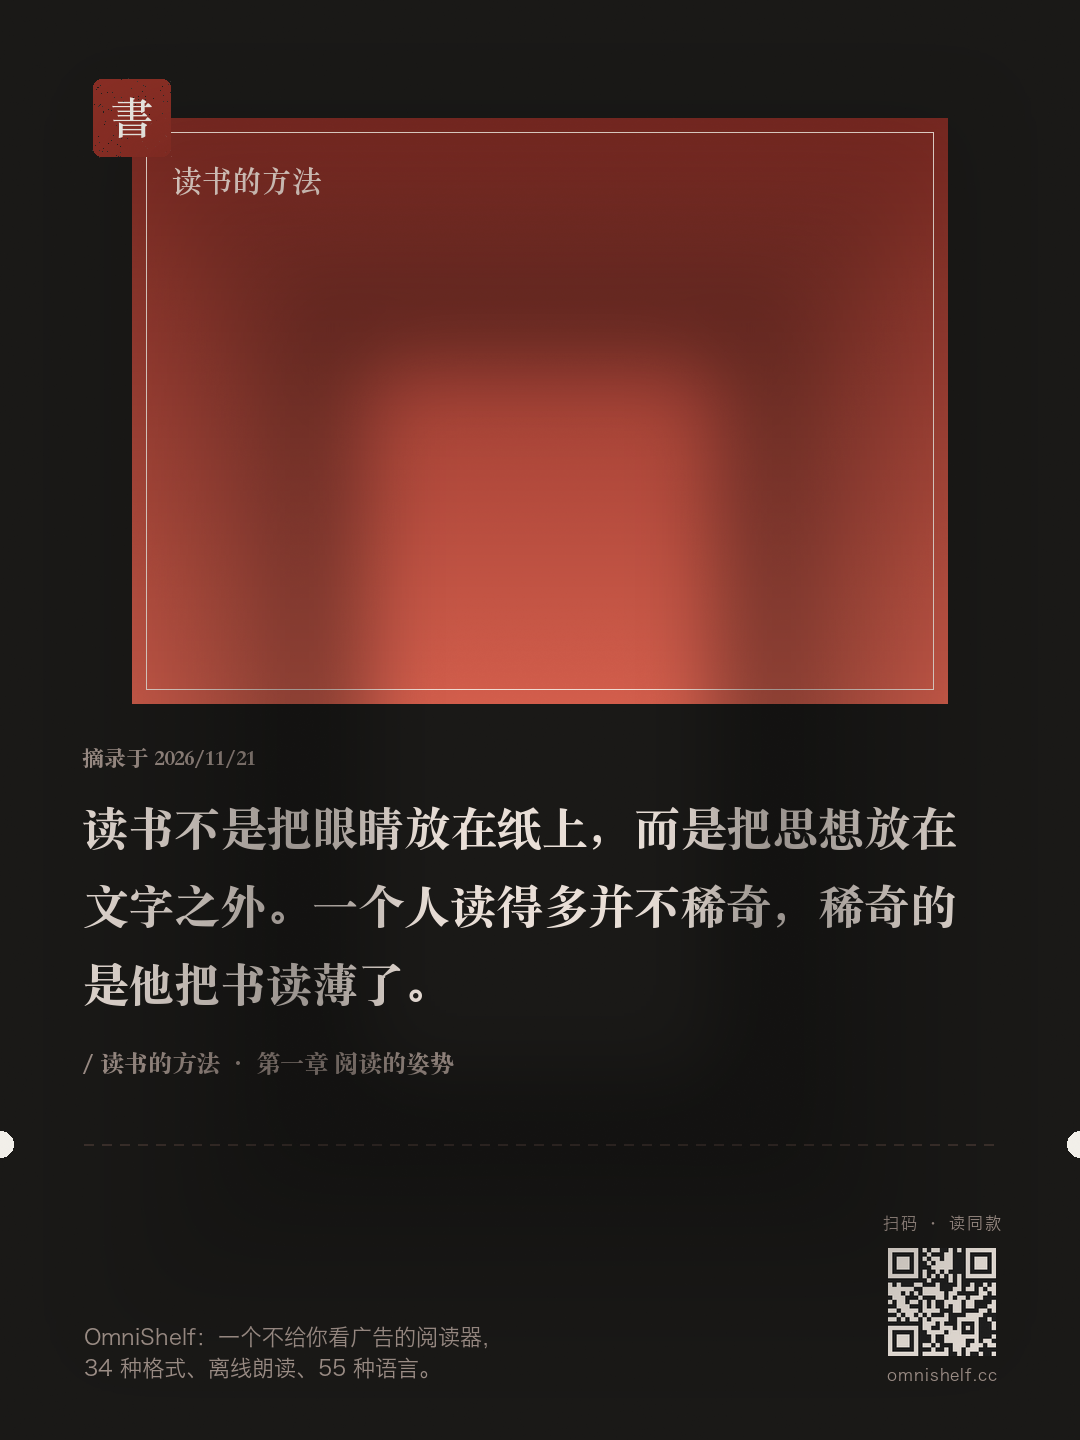
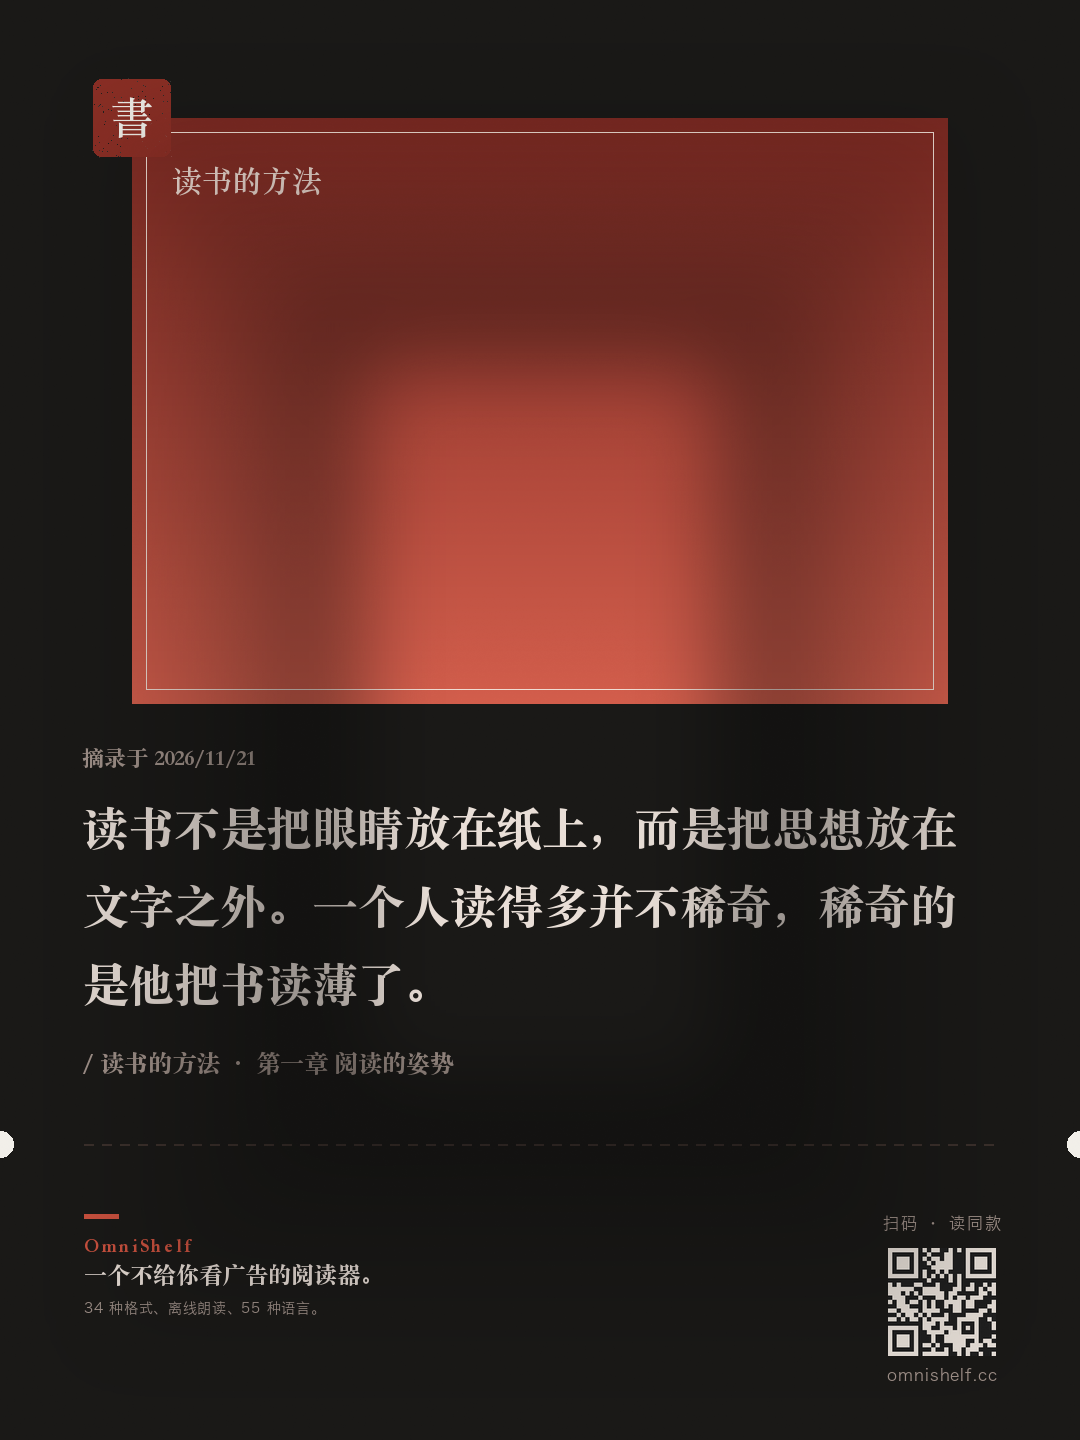
design: the product line becomes a colophon
Two lines of body copy read as pasted on. The block is now a three-tier colophon -
cinnabar kicker, tracked name, Songti claim, tracked specs - anchored to the same top
line as the scan label, split from the existing localized string without changing its
words, and given a left margin so the spine layout never covers it.

Changed region(s): [[0.0917, 0.8438, 0.4583, 0.9688]]

diff --git a/docs/share-card/v3/render-cards.py b/docs/share-card/v3/render-cards.py
@@ -112,7 +112,62 @@ def wordmark(d, x, y, fill, size=22):
     f = f_helv(size, False)
     letterspaced(d, "OMNISHELF", x, y, f, fill, track=0.28)
 
-def stub(im, d, intro, dark, qr_path, cta, qr_size=112, notches=("paper", "paper")):
+def intro_block(d, intro, dark, top_y, bottom_y, maxw, left=84):
+    """Draws the product line as a colophon: kicker, name, claim, specs.
+
+    It is laid out from the QR's top edge, so the two columns of the stub start and end
+    on the same lines. If a longer translation would overflow, it falls back to sitting
+    on the shared bottom edge instead.
+    """
+    fg = NIGHT_MUTED if dark else MUTED
+    strong = NIGHT_TEXT if dark else INK
+    accent = ACCENT if dark else CINNABAR
+    # split "OmniShelf: claim, specs" without translating anything away
+    brand, claim, specs = "OmniShelf", intro, ""
+    for sep in ("：", ":"):
+        if sep in intro:
+            brand, rest = intro.split(sep, 1)
+            brand, claim = brand.strip(), rest.strip()
+            break
+    if "，" in claim:
+        claim, specs = claim.rsplit("，", 1)
+        claim, specs = claim.strip() + "。", specs.strip()
+    elif "," in claim:
+        claim, specs = claim.rsplit(",", 1)
+        claim, specs = claim.strip() + ".", specs.strip()
+
+    brand_font = f_song(19, 0)
+    claim_font = f_song(23, 0)
+    spec_font = f_cjk(14)
+
+    claim_lines = wrap_cjk(claim, claim_font, maxw, d)
+    spec_lines = wrap_cjk(specs, spec_font, maxw, d) if specs else []
+
+    brand_h = 26
+    claim_h = len(claim_lines) * 34
+    spec_h = len(spec_lines) * 22
+    total = 6 + 12 + brand_h + claim_h + (8 + spec_h if specs else 0)
+    y = top_y if total <= (bottom_y - top_y) + 18 else bottom_y - total
+    d.rectangle([left, y, left + 34, y + 4], fill=accent)
+    y += 6 + 12
+    # the name: small, tracked, warm
+    cx = left
+    for ch in brand:
+        d.text((cx, y), ch, font=brand_font, fill=accent)
+        cx += brand_font.getlength(ch) + brand_font.size * 0.14
+    y += brand_h
+    for i, line in enumerate(claim_lines):
+        d.text((left, y + i * 34), line, font=claim_font, fill=strong)
+    y += claim_h
+    if specs:
+        y += 8
+        for i, line in enumerate(spec_lines):
+            sx = left
+            for ch in line:
+                d.text((sx, y + i * 22), ch, font=spec_font, fill=fg)
+                sx += spec_font.getlength(ch) + spec_font.size * 0.05
+
+def stub(im, d, intro, dark, qr_path, cta, qr_size=112, notches=("paper", "paper"), left=84):
     """The bottom of the card, a ticket stub: perforation, intro on the left, QR on the right.
 
     There is deliberately no wordmark down here - the intro already opens with the name,
@@ -123,7 +178,7 @@ def stub(im, d, intro, dark, qr_path, cta, qr_size=112, notches=("paper", "paper
     qr_x = W - 84 - qr_size
     qr_y = H - 84 - qr_size
     perforation_y = H - 296
-    x = 84
+    x = left
     while x < W - 84:
         d.line([(x, perforation_y), (min(x + 9, W - 84), perforation_y)], fill=line, width=2)
         x += 18
@@ -132,28 +187,38 @@ def stub(im, d, intro, dark, qr_path, cta, qr_size=112, notches=("paper", "paper
         fill = edge.get(side)
         if fill is not None:
             d.ellipse([cx - 13, perforation_y - 13, cx + 13, perforation_y + 13], fill=fill)
-    # CTA right-aligned over the QR
-    cf = f_song(19, 0)
-    cw = d.textlength(cta, font=cf)
-    d.text((qr_x + qr_size - cw, qr_y - 34), cta, font=cf, fill=fg)
+    # The two labels around the QR are one typographic group: same size, same tracking,
+    # both centred on the QR axis, and the CTA shrinks until it fits that axis.
+    qr_cx = qr_x + qr_size / 2.0
+    label_size = 16
+    while label_size > 11:
+        probe = f_cjk(label_size)
+        w = sum(d.textlength(ch, font=probe) + label_size * 0.10 for ch in cta)
+        if w <= qr_size + 26:
+            break
+        label_size -= 1
+    cf = f_cjk(label_size)
+    def track_width(text, font, track):
+        return sum(font.getlength(ch) for ch in text) + track * font.size * (len(text) - 1)
+    tw = track_width(cta, cf, 0.10)
+    x = qr_cx - tw / 2
+    for ch in cta:
+        d.text((x, qr_y - 18 - label_size), ch, font=cf, fill=fg)
+        x += cf.getlength(ch) + cf.size * 0.10
     qr = Image.open(qr_path).convert("RGB").resize((qr_size, qr_size), Image.LANCZOS)
     im.paste(qr, (qr_x, qr_y))
-    cap = f_helv(15, False)
-    capw = d.textlength("omnishelf.cc", font=cap)
-    d.text((qr_x + (qr_size - capw) / 2, qr_y + qr_size + 7), "omnishelf.cc", font=cap, fill=fg)
-    # intro: two lines at most, bottom aligned with the QR
-    font = f_cjk(22)
-    maxw = qr_x - 84 - 48
-    lines = wrap_cjk(intro, font, maxw, d)
-    if len(lines) > 1:
-        cut = intro.rfind("，")
-        if cut > 0:
-            a, b = intro[:cut + 1], intro[cut + 1:].strip()
-            if d.textlength(a, font=font) <= maxw and d.textlength(b, font=font) <= maxw:
-                lines = [a, b]
-    y0 = qr_y + qr_size - (len(lines) - 1) * 31
-    for i, line in enumerate(lines):
-        d.text((84, y0 + i * 31), line, font=font, fill=fg)
+    cap = f_cjk(label_size)
+    capw = track_width("omnishelf.cc", cap, 0.06)
+    cx = qr_cx - capw / 2
+    for ch in "omnishelf.cc":
+        d.text((cx, qr_y + qr_size + 10), ch, font=cap, fill=fg)
+        cx += cap.getlength(ch) + cap.size * 0.06
+
+    # The colophon on the left is a three-tier block, not a paragraph: a cinnabar kicker,
+    # the name as a small tracked label, the claim in Songti, the specs as a tracked line.
+    # It mirrors the QR group on the right (label + content), which is what made the old
+    # two-line paragraph look pasted on.
+    intro_block(d, intro, dark, qr_y - 34, qr_y + qr_size, qr_x - left - 46, left=left)
 
 def rule(d, x1, y, x2, fill, w=1):
     """Horizontal hairline; y may be passed as the fourth argument."""
@@ -263,7 +328,7 @@ def card3(intro, name="03-vertical-spine-night"):
     d.text((text_x, y + 26), "/ " + CHAPTER, font=f_song(24, 0), fill=NIGHT_MUTED)
     seal(im, text_x, y + 70, 74)
     stub(im, d, intro, dark=True, qr_path="docs/share-card/v2/qr-night.png", cta=SCAN_ZH, qr_size=108,
-         notches=("spine", "night"))
+         notches=("spine", "night"), left=spine_w + 40)
     im = vignette(im, 0.45)
     im = paper_grain(im, 5)
     im.save(OUT / f"{name}.png"); return im

diff --git a/docs/share-card/v3/DESIGN-SPEC-V3.md b/docs/share-card/v3/DESIGN-SPEC-V3.md
@@ -50,6 +50,27 @@
 4. **扫码引导**(第二版新增):二维码上方一行小字,中文「扫码 · 读同款」,英文 "Scan to read";
    资源 `share_card_scan`,**55 个语言各一份**,已写入 56 个 `strings.xml`(743 键零差异)。
 
+### 左下角产品介绍(第三轮修正:三段式版本记录)
+
+上一稿是两行 22px 黑体正文,和整卡的宋体气质、和右侧标签组都不在一个体系里,所以显得"贴上去"。
+现在改成**书末版本记录(colophon)**的三段结构,并把左右两栏对齐到同一条顶线:
+
+| 层级 | 内容 | 排印 |
+|---|---|---|
+| ① 起首线 | 34×4px 朱砂短线 | 与右侧「扫码 · 读同款」同一顶线 |
+| ② 品牌小标 | `OmniShelf` | 宋体 19px,朱砂色,0.14em 字距(只在整张卡出现一次) |
+| ③ 主张 | `一个不给你看广告的阅读器。` | 宋体 23px,墨色/夜白,行距 34 |
+| ④ 规格行 | `34 种格式、离线朗读、55 种语言。` | 14px,次级色,0.05em 字距 |
+
+**拆分方式**(不改变 55 语言文案,只是重新排印):
+先在 `:` / `：` 处切出品牌名,再在第一个 `,` / `，` 处切出规格行;没有标点的语言自动退回两段式。
+文案仍来自资源 `share_card_intro`,55 个语言各一份。
+
+**对齐规则**:
+- 左块从**二维码上沿 -34px**起排(即与扫码标签同一顶线),底边落在二维码底边;
+- 若某语言文案太长超出,自动改为**底边对齐**而不是溢出;
+- 卡 3(竖排书脊)的左边界从书脊右侧 216px 起排,虚线打孔也从那里开始,避免压到朱砂书脊。
+
 ### 二维码标签组(第二轮修正)
 
 上一稿二维码上方 19px 宋体、下方 15px Helvetica,字体字号对齐轴三者都不一致,且文案比二维码宽、
